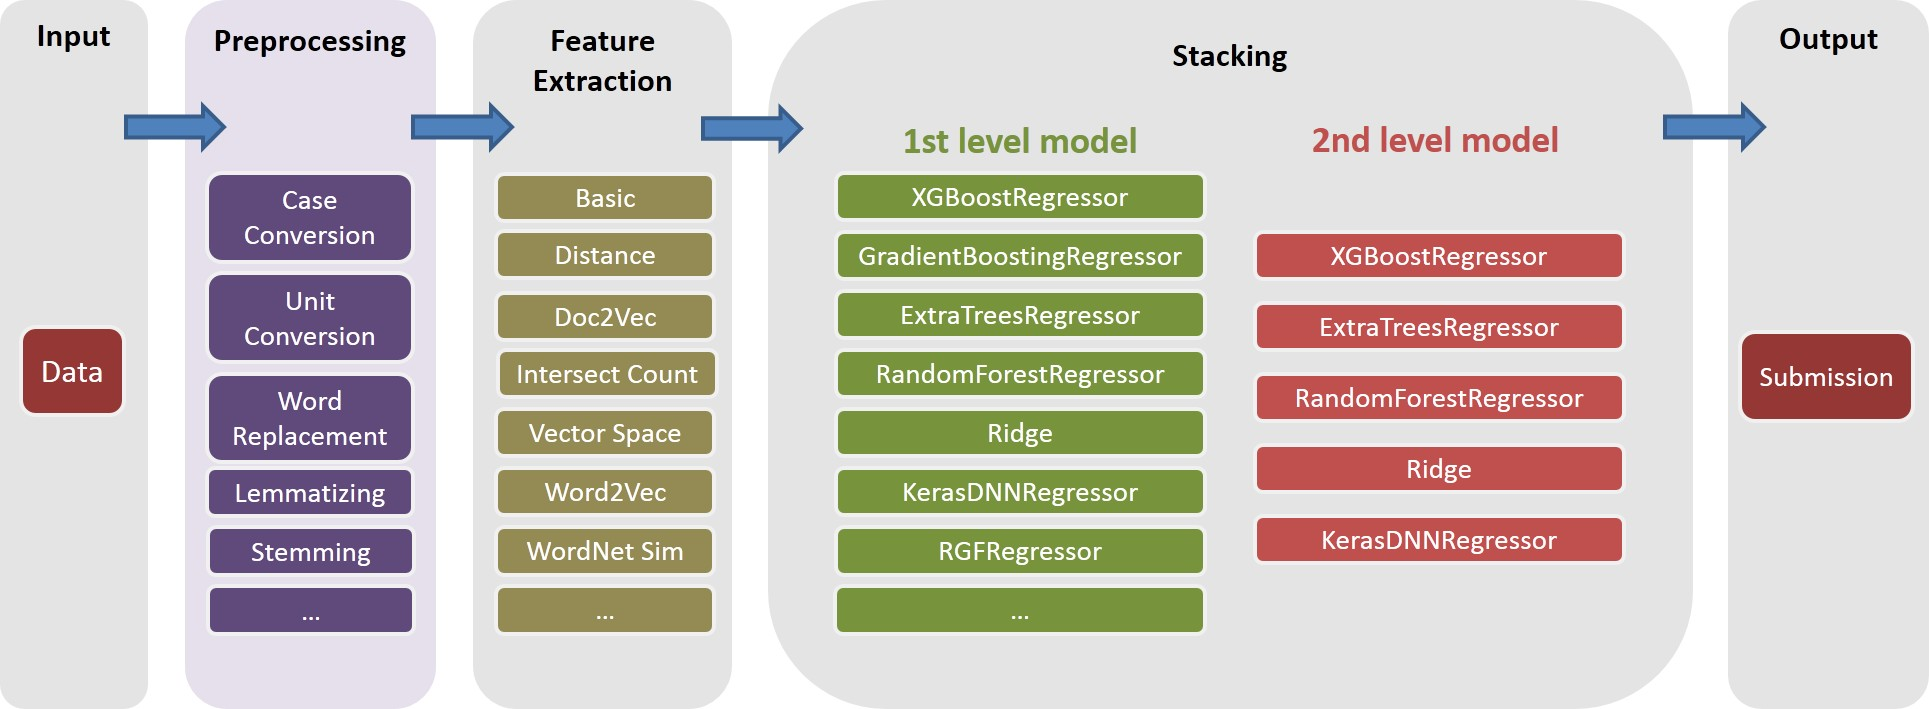
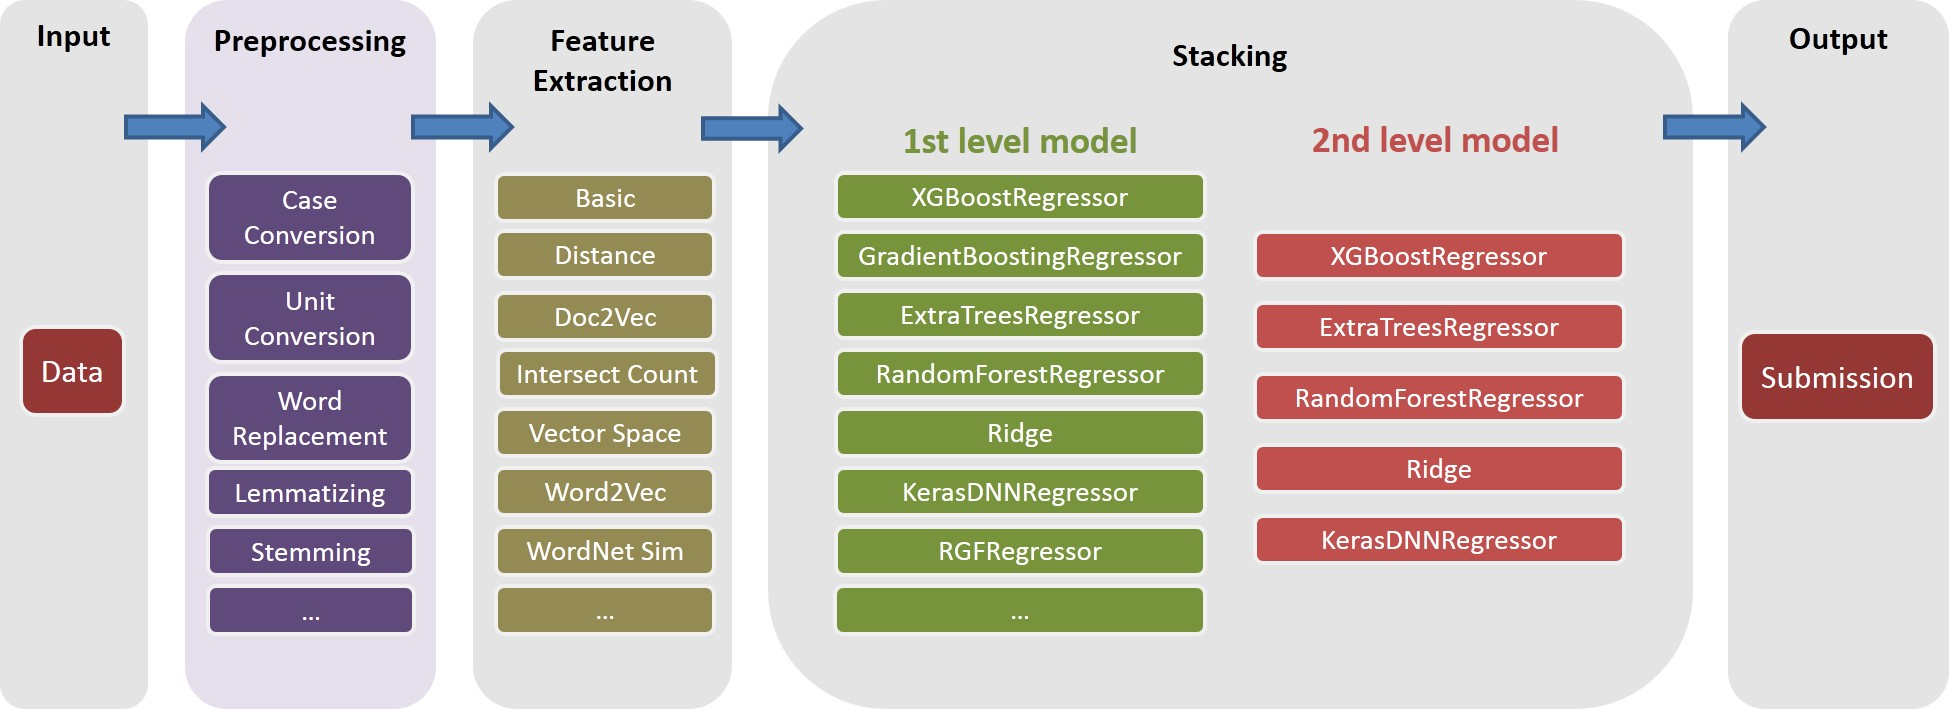
adjust fig

diff --git a/README.md b/README.md
@@ -11,7 +11,7 @@ Turing Test's Solution for [Home Depot Product Search Relevance Competition on K
 
 ## FlowChart
 
-<img src="./Fig/FlowChart.jpg" alt="FlowChart" align="center" width="1000px"/>
+<img src="./Fig/FlowChart.jpg" alt="FlowChart" align="center" width="900px"/>
 
 ## Documentation
 
